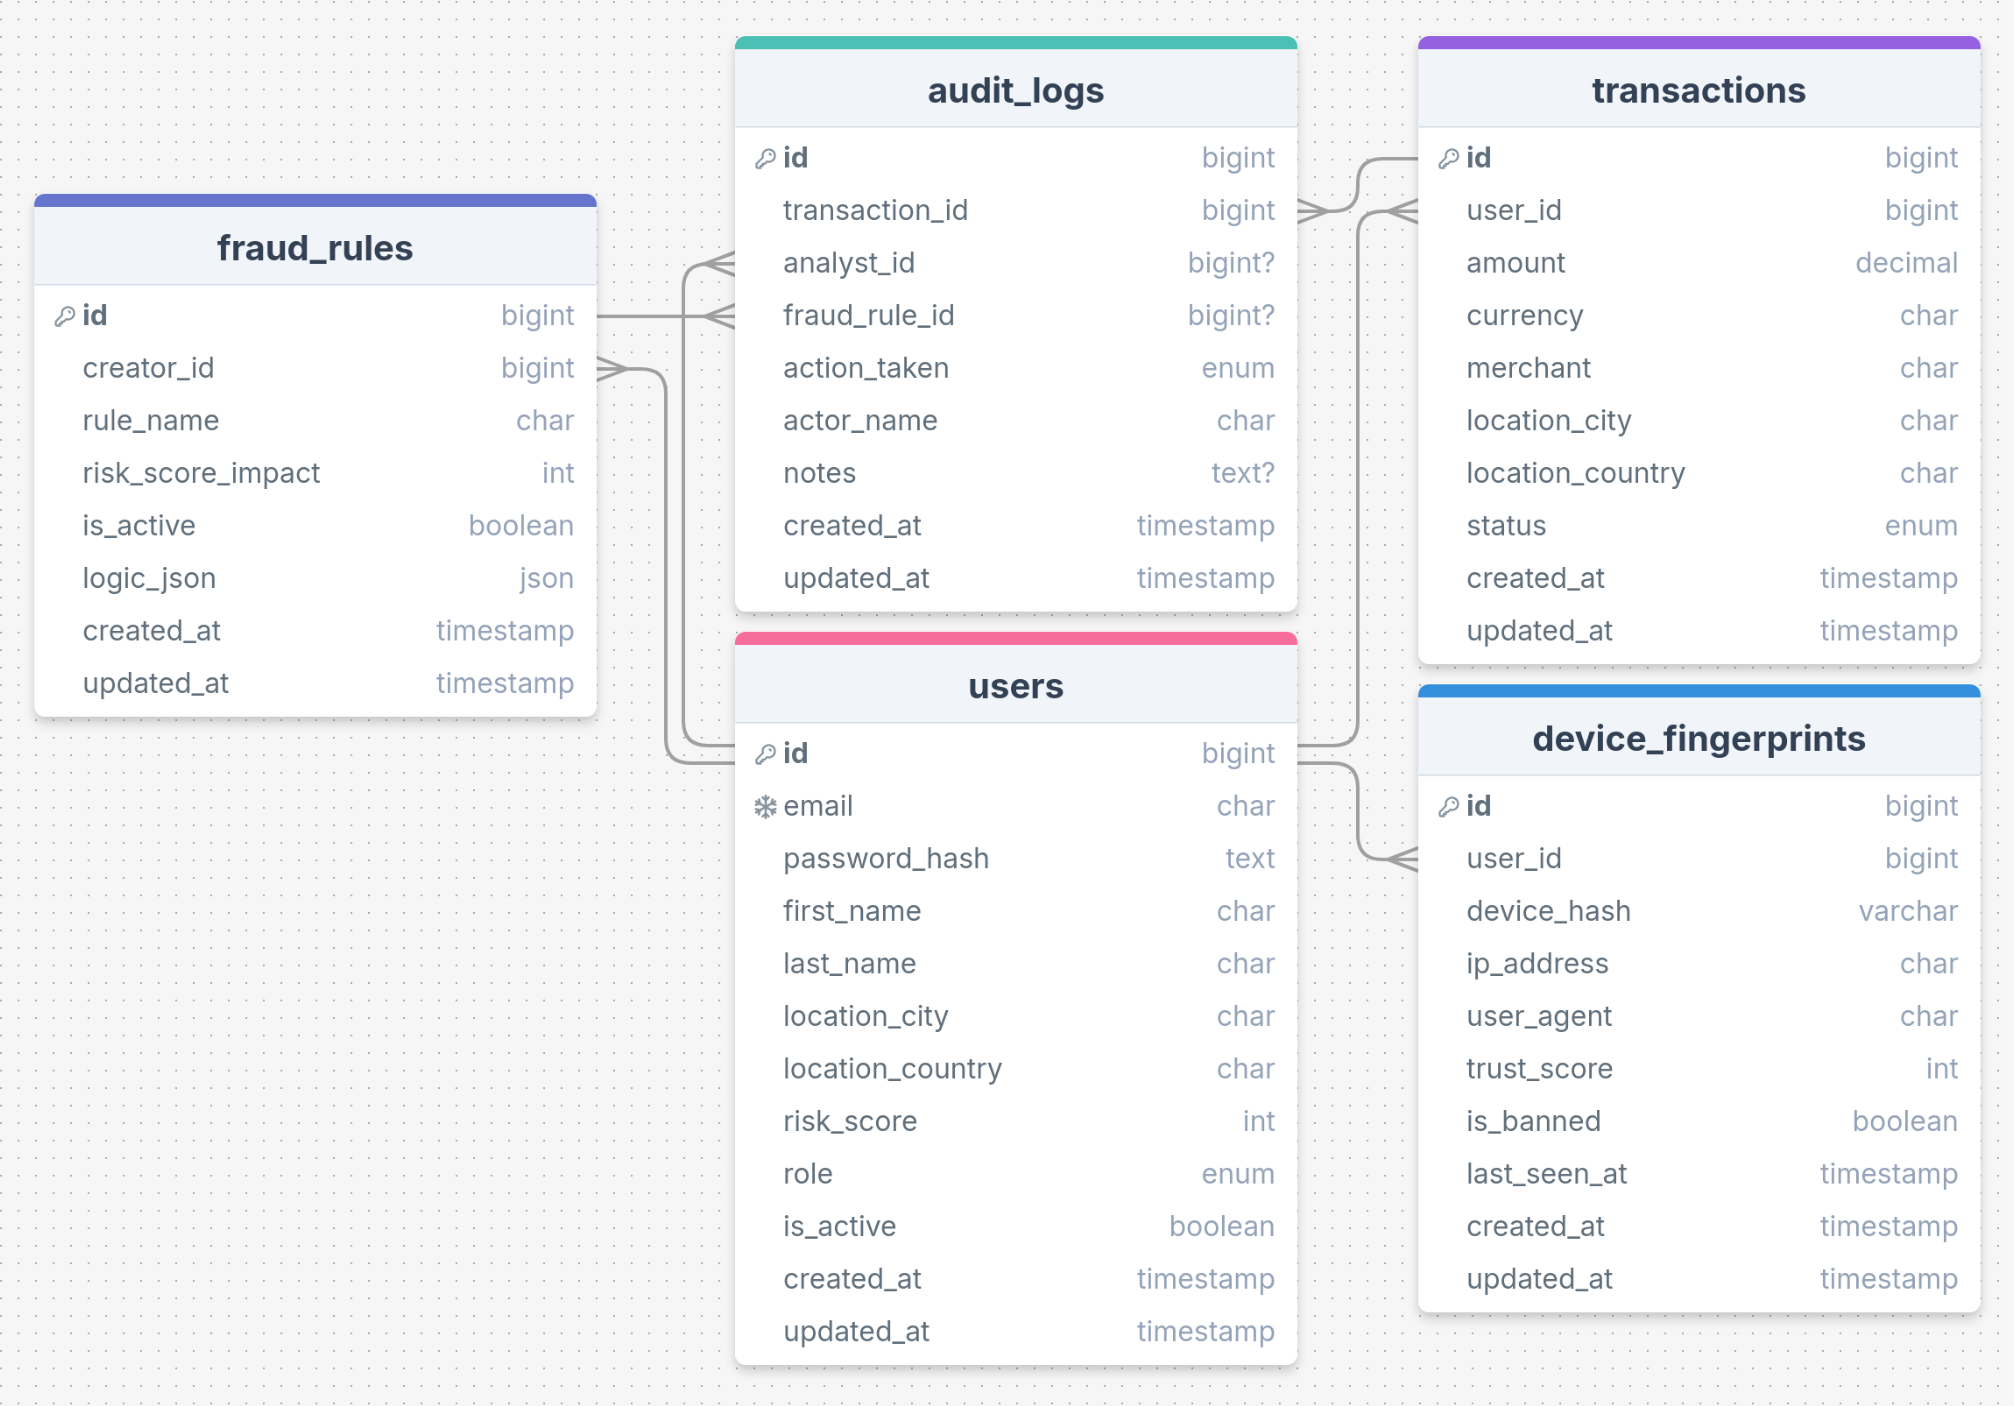
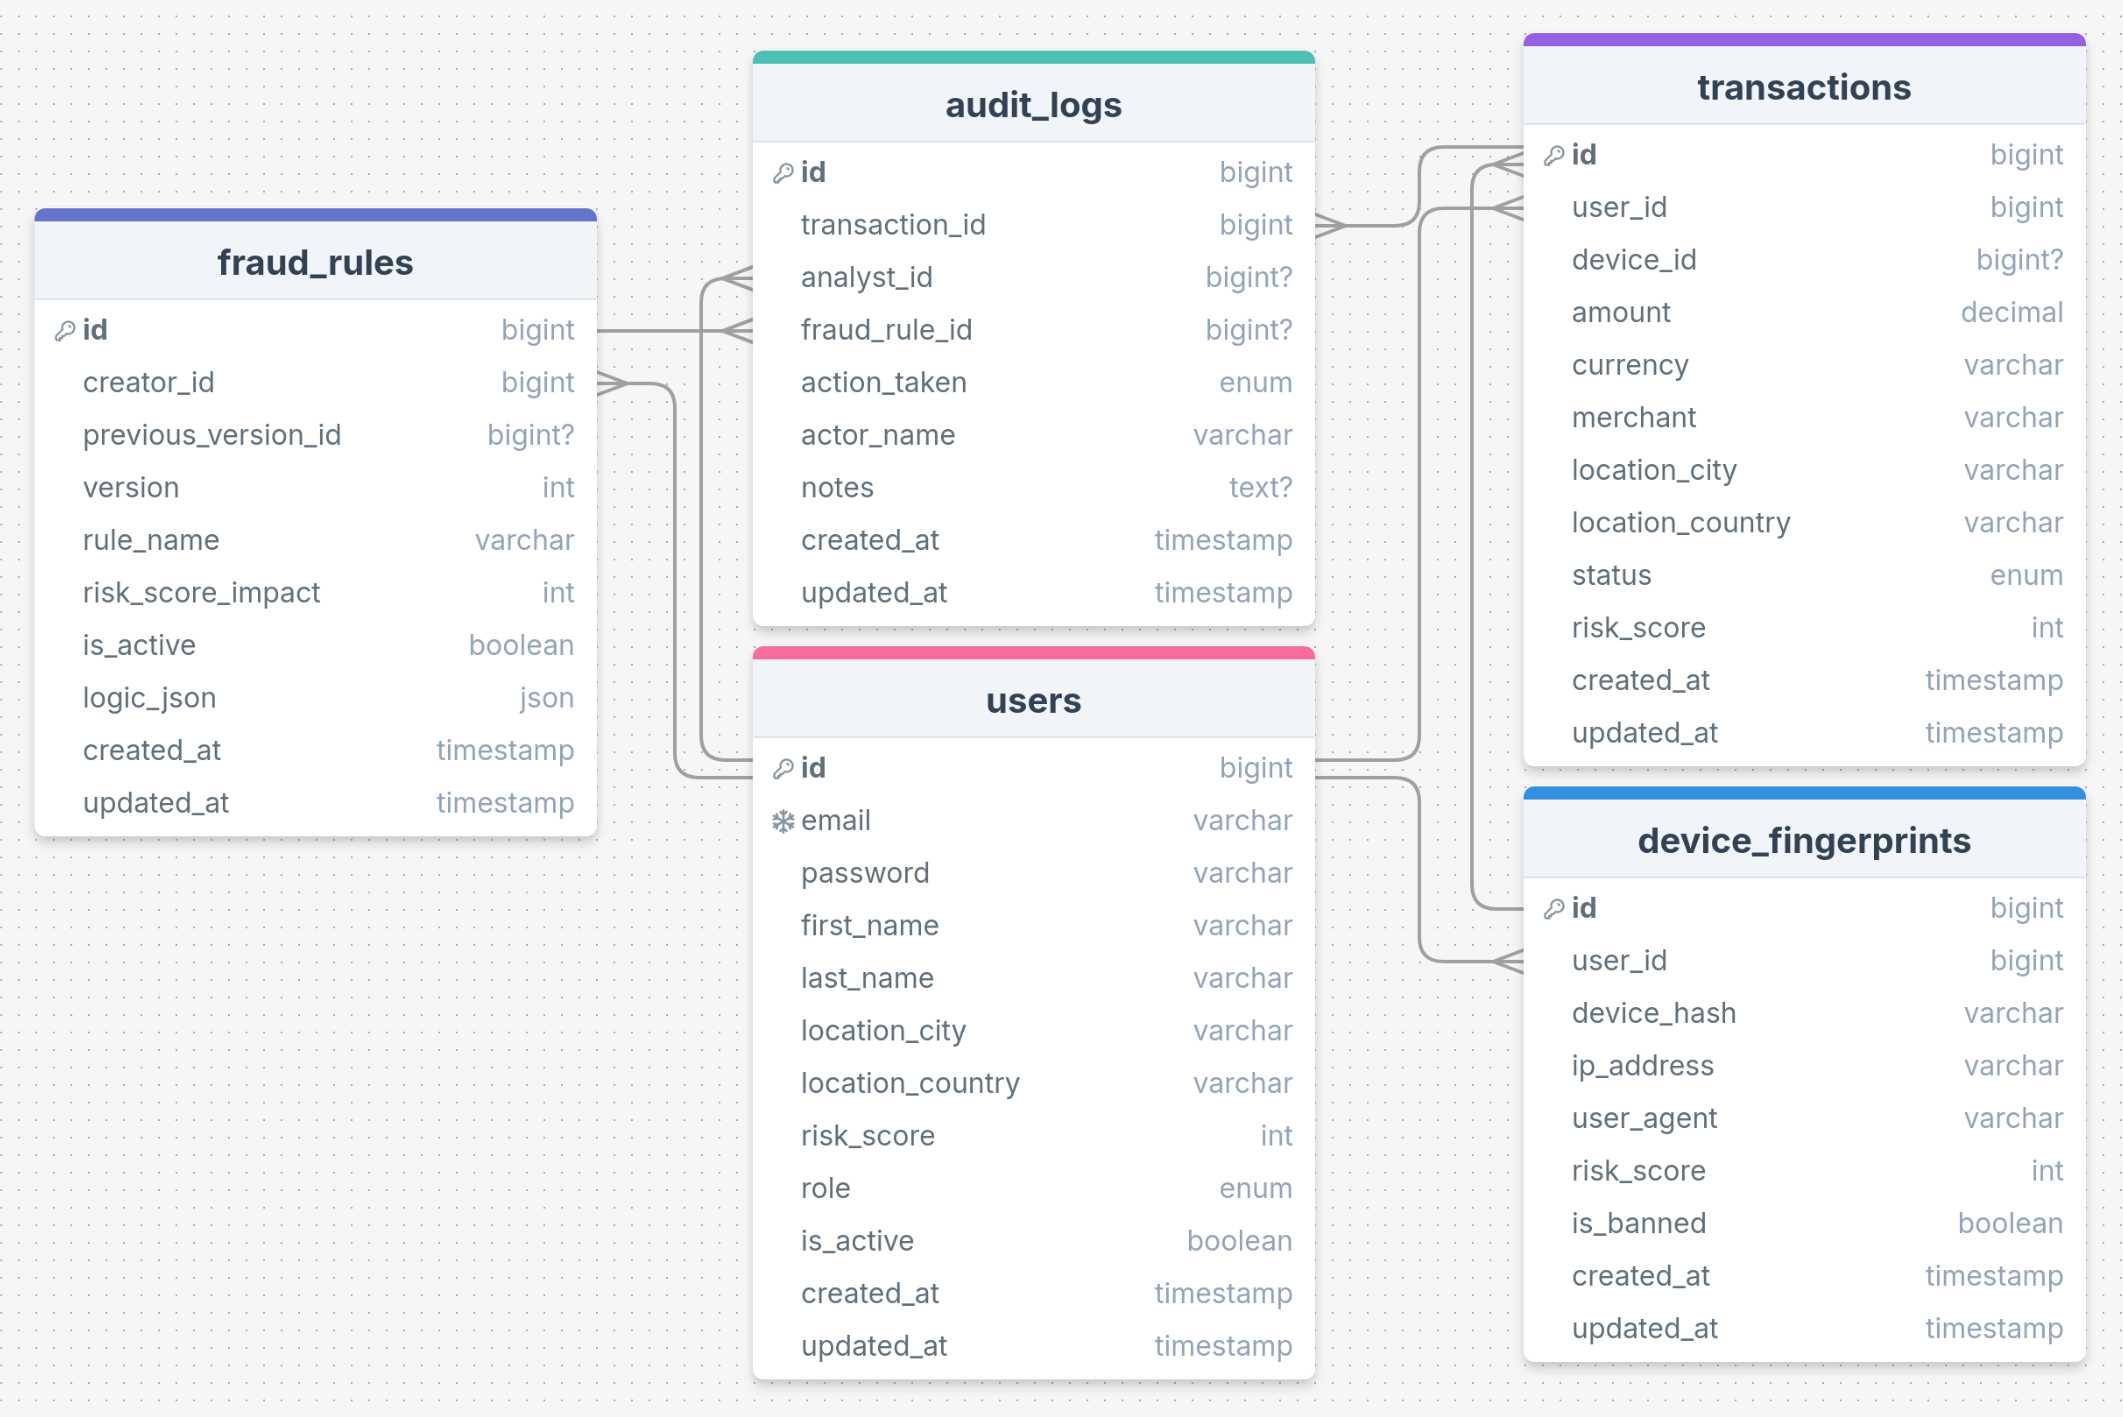
modified readme

diff --git a/README.md b/README.md
@@ -8,7 +8,7 @@
 SentinelStream is a high-velocity fraud detection engine that processes and visualizes banking transactions in real-time
 <br/>
 <br/>
-<a href="https://www.repo.com">View Demo</a> . 
+<a href="#">View Demo</a> . 
 <a href="https://trello.com/b/K5LCVO34/sentinelstream">Trello Board</a> 
 </p>
 </div>
@@ -17,22 +17,14 @@ Table of Contents
 - [About The Project](#about-the-project)
   - [Database Schema](#database-schema)
   - [Built With](#built-with)
-- [Getting Started](#getting-started)
-  - [Prerequisites](#prerequisites)
-  - [Installation](#installation)
-- [Usage](#usage)
-- [Roadmap](#roadmap)
-- [Contributing](#contributing)
-- [License](#license)
-- [Contact](#contact)
-- [Acknowledgments](#acknowledgments)
-- [Notice](#notice)
 
 ## About The Project
 
 SentinelStream is a high-velocity fraud detection engine that processes and visualizes banking transactions in real-time. Built with Node.js and WebSockets, it simulates a live financial network, applying heuristic algorithms to detect anomalies (like velocity attacks) in under 100ms and broadcasting alerts to a live React dashboard.
 
 ### Database Schema
+
+The schema enforces strict Separation of Duties (SoD) by isolating internal Staff/Analysts from Customer entities, ensuring operational security and preventing insider threat transaction.
 
 <img src=".readme-images/db-schema.png" alt="Database schema" height="500px" />
 
@@ -45,105 +37,3 @@ This project was built with the following technologies:
 - <img src="https://img.shields.io/badge/Node.js-6DA55F?logo=node.js&logoColor=white" alt="Node.js" />
 - <img src="https://img.shields.io/badge/Express.js-%23404d59.svg?logo=express&logoColor=%2361DAFB" alt="Express.js" />
 - <img src="https://img.shields.io/badge/Postgres-%23316192.svg?logo=postgresql&logoColor=white" alt="PostgreSQL" />
-
-## Getting Started
-
-Instructions of setting up project on your local machine.
-
-### Prerequisites
-
-Describe prerequisites and how to complete them, this example we're installing nodemon. To install nodemon do the following:
-
-- Install Nodemon:
-  ```sh
-  npm install -g nodemon
-  ```
-  Make sure NPM is installed.
-- Verify installation:
-  ```sh
-  nodemon --version
-  ```
-
-### Installation
-
-1. **Clone the repository**
-
-   ```sh
-   git clone --recurse-submodules https://github.com/venoblin/scripts
-   ```
-
-2. **Create settings file (for [ezdownloadsorter](https://github.com/venoblin/download-file-sorter))**
-
-   ```sh
-   cd scripts
-   touch settings.json
-   ```
-
-3. **Modify `settings.json`**
-
-   ```json
-   {
-     "downloads": "/path/to/Downloads",
-     "destinations": {
-       ".file-extension": "/path/to/destination",
-       ".file-extension": "/path/to/destination",
-       ".file-extension": "/path/to/destination"
-     }
-   }
-   ```
-
-4. **Install scripts**
-   ```sh
-   ./install.sh
-   ```
-
-## Usage
-
-Put usage examples here
-
-## Roadmap
-
-The roadmap includes both completed and future goals. Here's what we have accomplished and looking forward to:
-
-- [x] new feature
-- [x] new feature
-- [x] new feature
-  - [x] feature of the new feature
-  - [x] feature of the new feature
-
-See the [open issues](https://github.com/user/repo/issues) for a full list of proposed features (and known issues).
-
-## Contributing
-
-Contributions are what make the open source community such an amazing place to learn, inspire, and create. Any contributions you make are **greatly appreciated**.
-
-If you have a suggestion that would make this better, please fork the repo and create a pull request. You can also simply open an issue with the tag &quot;enhancement&quot;.
-Don&#39;t forget to give the project a star! Thanks again!
-
-1. Fork the Project
-2. Create your Feature Branch (`git checkout -b feature/AmazingFeature`)
-3. Commit your Changes (`git commit -m &#39;Add some AmazingFeature&#39;`)
-4. Push to the Branch (`git push origin feature/AmazingFeature`)
-5. Open a Pull Request
-
-## License
-
-Distributed under the Mozilla Public License 2.0 License. See [Mozilla Public License 2.0 License](https://github.com/user/repo/LICENSE.md) for more information.
-
-## Contact
-
-If you have any questions or suggestions, feel free to reach out to us:
-
-- Raise an issue on the repository: [GitHub Repository](https://github.com/user/repo)
-- Connect with us on social media: [@user](https://socialmedia.com/user)
-
-## Acknowledgments
-
-A special thanks to the following for their contributions, support and inspiration:
-
-- [makeread.me](https://github.com/ShaanCoding/makeread.me)
-- [Othneil Drew](https://github.com/othneildrew/Best-README-Template)
-
-## Notice
-
-Any other information.
